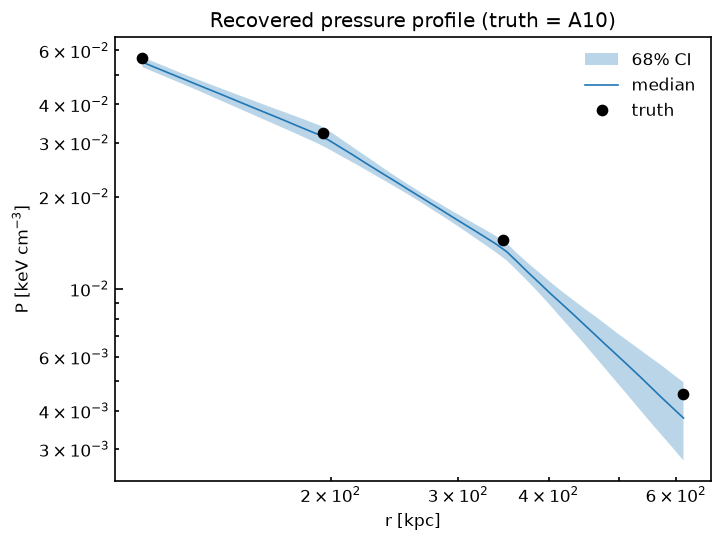
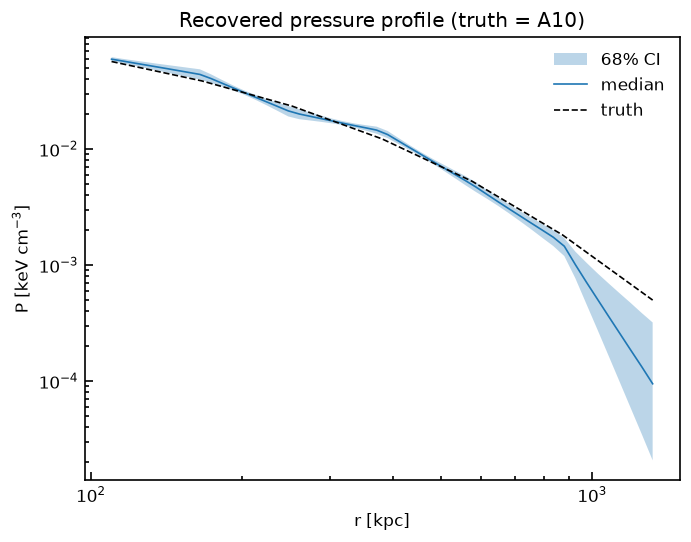
cosmetics

diff --git a/examples/example_C2_NIKA2.py b/examples/example_C2_NIKA2.py
@@ -19,6 +19,7 @@ import matplotlib.pyplot as plt
 import numpy as np
 import jax
 from astropy.coordinates import SkyCoord
+import time
 
 import panco3
 from panco3 import priors, posterior, inference, results
@@ -40,7 +41,7 @@ def main():
         z=0.5,
         M_500=6e14,
         coords_center=SkyCoord("12h00m00s +00d00m00s"),
-        map_size=3.0,
+        map_size=6.5,
     )
 
     # --- 2. Radial binning (beam scale -> ~1.1 x half-map) ----------------- #
@@ -48,7 +49,7 @@ def main():
     # unconstrained by the data, become prior-dominated, and stall HMC mixing.
     beam_kpc = ppf.cluster.arcsec2kpc(18.0)
     half_kpc = ppf.cluster.arcsec2kpc(ppf.map_size * 60 / 2)
-    r_bins = np.logspace(np.log10(beam_kpc), np.log10(1.1 * half_kpc), 4)
+    r_bins = np.logspace(np.log10(beam_kpc), np.log10(1.1 * half_kpc), 7)
     ppf.define_model(r_bins, n_nodes=16)
 
     # --- 3. Beam + transfer-function filtering ----------------------------- #
@@ -84,15 +85,18 @@ def main():
     log_post, plist, init_z, constrain = posterior.make_log_posterior(ppf)
     print(f"log-posterior at init: {float(log_post(init_z)):.1f}", flush=True)
     print("running NUTS (dense mass matrix) ...", flush=True)
+    ti = time.time()
     result = inference.run_nuts(
         log_post,
         init_z,
-        num_warmup=500,
-        num_samples=500,
-        num_chains=2,
+        num_warmup=400,
+        num_samples=800,
+        num_chains=4,
         dense_mass=True,
         rng_key=jax.random.PRNGKey(0),
     )
+    dt = time.time() - ti
+    print(f"running time: {dt:.1f} s")
     print(
         f"mean acceptance: {result['acceptance_rate'].mean():.2f}, "
         f"divergences: {int(result['divergences'].sum())}",

diff --git a/src/panco3/results.py b/src/panco3/results.py
@@ -57,7 +57,7 @@ def plot_pressure_profile(model, constrained_samples, r, truth=None, ax=None):
     ax.plot(r, mid, label="median")
     if truth is not None:
         ax.plot(
-            np.asarray(model.r_bins), np.asarray(truth), "ko", label="truth"
+            np.asarray(model.r_bins), np.asarray(truth), "k--", label="truth"
         )
     ax.set(
         xscale="log",
